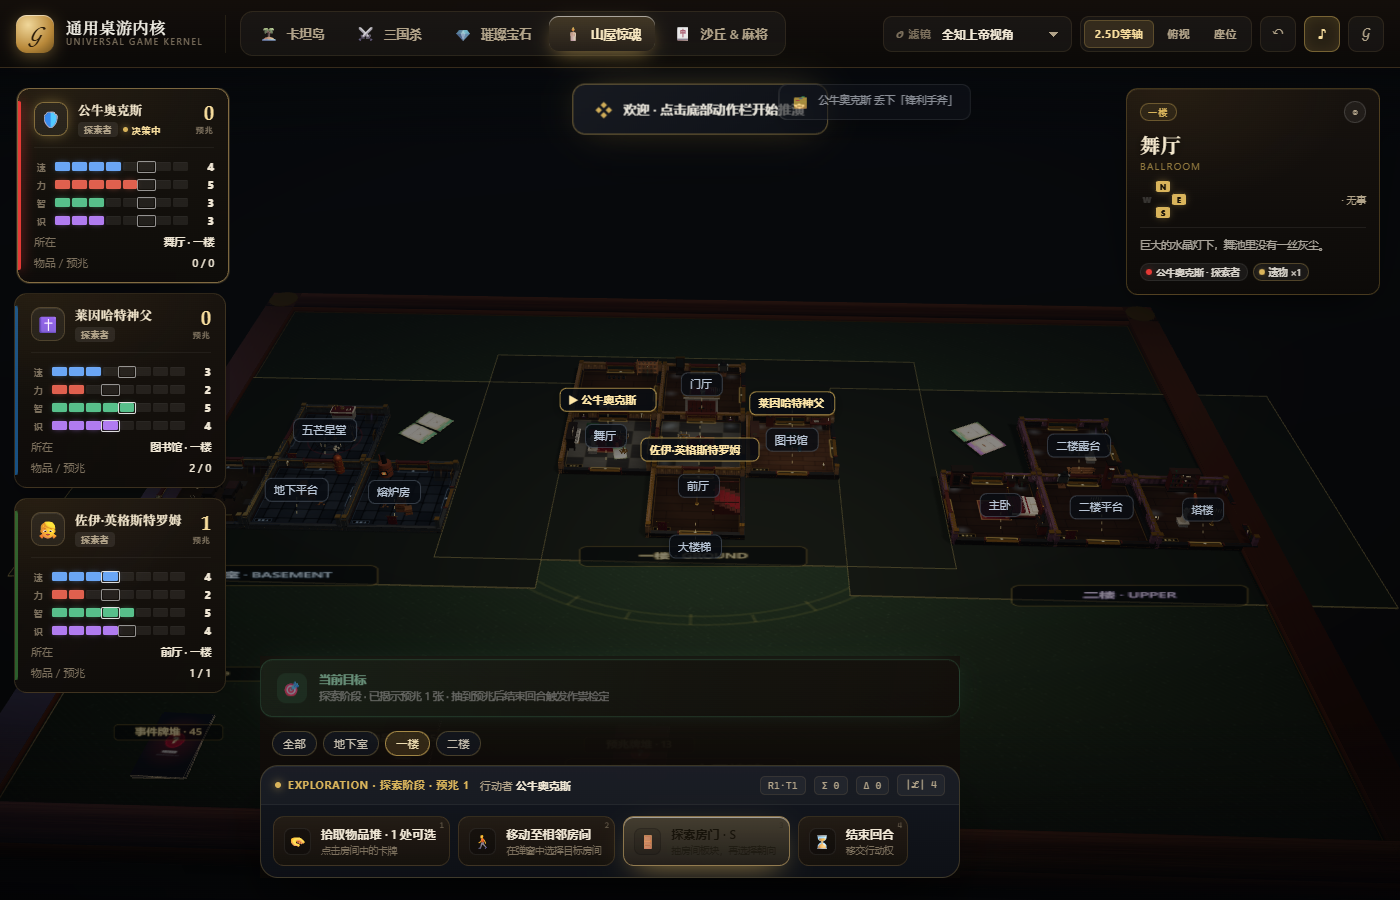
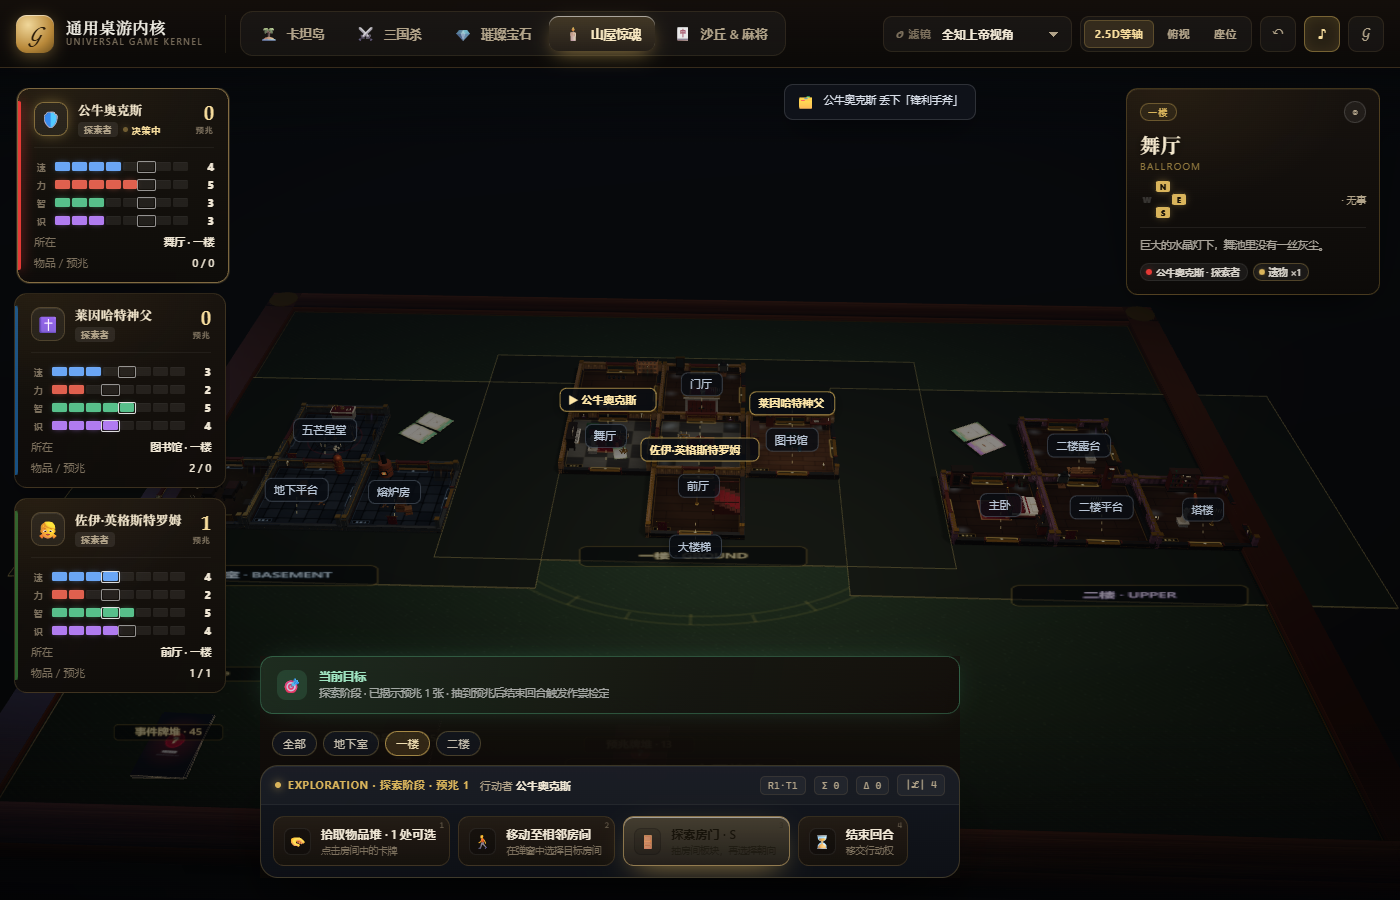
feat(ui): room discovery reveal sheet and presenter-scoped reveal state
- HUD diffs room ids per snapshot and presents a newly explored room as a
  centred parchment sheet (name, text, floor, connected doors, symbol)
- reveal variant of the sheet with its own entrance animation and timeout
- reset known rooms / pinning when switching fixtures so the first board
  paint never plays a cutscene
- audit entry SA-79

Changed region(s): [[0.3993, 0.0933, 0.6757, 0.1556], [0.1843, 0.7467, 0.43, 0.7778]]

diff --git a/src/ui/hud.ts b/src/ui/hud.ts
@@ -32,6 +32,9 @@ export class BoardGameHUD {
   /** Room the player last clicked; the dossier follows it until the turn moves. */
   private pinnedRoomId?: string;
   private lastActorRoomId?: string;
+  /** Set of room ids already seen, for the "new room discovered" reveal. */
+  private knownRooms?: Set<string>;
+  private sheetTimer: number | null = null;
 
   constructor(
     container: HTMLElement,
@@ -53,6 +56,10 @@ export class BoardGameHUD {
     this.unsubSnapshot?.();
     this.unsubNotice?.();
     this.closePayload();
+    // Switching fixtures must not treat the new board as "rooms discovered".
+    this.knownRooms = undefined;
+    this.pinnedRoomId = undefined;
+    this.lastActorRoomId = undefined;
     this.presenter = presenter;
     this.bindPresenter(presenter);
     this.syncSoundButton();
@@ -396,7 +403,7 @@ export class BoardGameHUD {
    * Framed card detail sheet in the mansion's own visual language: aged
    * parchment, a suit-coloured header ribbon, and a wax seal for omens.
    */
-  public showCardSheet(card: UiCardDetail): void {
+  public showCardSheet(card: UiCardDetail, options: { reveal?: boolean; footer?: string } = {}): void {
     let layer = this.container.querySelector('#card-sheet-layer') as HTMLElement | null;
     if (!layer) {
       layer = document.createElement('div');
@@ -417,6 +424,7 @@ export class BoardGameHUD {
       .map(row => `<li><span>${row.label}</span><b>${row.value}</b></li>`)
       .join('');
 
+    layer.classList.toggle('is-reveal', !!options.reveal);
     layer.innerHTML = `
       <article class="card-sheet" data-kind="${card.kind}" style="--ink:${theme.ink};--ribbon:${theme.ribbon}">
         <button class="cs-close" type="button" aria-label="关闭">×</button>
@@ -429,20 +437,66 @@ export class BoardGameHUD {
           <p class="cs-desc">${card.desc}</p>
           ${facts ? `<ul class="cs-facts">${facts}</ul>` : ''}
         </div>
-        <div class="cs-foot">点击牌堆或场景实体继续</div>
+        <div class="cs-foot">${options.footer ?? '点击牌堆或场景实体继续'}</div>
       </article>
     `;
     layer.classList.add('open');
 
     const close = () => {
-      layer!.classList.remove('open');
+      layer!.classList.remove('open', 'is-reveal');
       layer!.innerHTML = '';
     };
     layer.querySelector('.cs-close')?.addEventListener('click', close);
     layer.addEventListener('click', event => {
       if (event.target === layer) close();
     });
-    window.setTimeout(close, 9000);
+    if (this.sheetTimer) window.clearTimeout(this.sheetTimer);
+    this.sheetTimer = window.setTimeout(close, options.reveal ? 7000 : 9000);
+  }
+
+  /**
+   * Discovery moment: when a newly explored room enters the projection, present
+   * it like a drawn card instead of silently growing the board.
+   */
+  private maybeRevealRoom(snapshot: GameSnapshot): void {
+    const rooms = Object.values(snapshot.board.mapGraph.nodes).filter(node => node.type === 'ROOM');
+    if (!this.knownRooms) {
+      // First paint: register the opening layout without a cutscene.
+      this.knownRooms = new Set(rooms.map(node => node.id));
+      return;
+    }
+    const fresh = rooms.filter(node => !this.knownRooms!.has(node.id));
+    for (const node of rooms) this.knownRooms.add(node.id);
+    if (fresh.length === 0) return;
+
+    const node = fresh[fresh.length - 1];
+    const props = (node.props ?? {}) as Record<string, unknown>;
+    const floorId = String(props.floor ?? '');
+    const floorLabel = floorId === 'BASEMENT' ? '地下室' : floorId === 'UPPER' ? '二楼' : '一楼';
+    const doors = Array.isArray(props.doors) ? (props.doors as string[]) : [];
+    const symbol =
+      props.symbol === 'OMEN'
+        ? '预兆 👁'
+        : props.symbol === 'ITEM'
+        ? '遗物 ◆'
+        : props.symbol === 'EVENT'
+        ? '事件 ✦'
+        : '无符号';
+    this.pinnedRoomId = node.id;
+    this.showCardSheet(
+      {
+        title: String(props.name ?? '房间'),
+        en: String(props.en ?? ''),
+        kind: 'ROOM',
+        desc: String(props.text ?? ''),
+        facts: [
+          { label: '楼层', value: floorLabel },
+          { label: '已连通门位', value: doors.join(' · ') || '无' },
+          { label: '符号', value: symbol }
+        ]
+      },
+      { reveal: true, footer: '新房间已加入洋馆布局' }
+    );
   }
 
   private syncSoundButton(): void {
@@ -552,6 +606,7 @@ export class BoardGameHUD {
     this.renderPlayers(snapshot);
     this.renderRoomCard(snapshot);
     this.renderDock(snapshot);
+    this.maybeRevealRoom(snapshot);
   }
 
   /**

diff --git a/src/ui/styles.css b/src/ui/styles.css
@@ -3072,3 +3072,36 @@ select.pf-control {
   color: rgba(217, 180, 91, 0.8);
   letter-spacing: 0.02em;
 }
+
+/* Room-discovery reveal: same parchment, centred and slightly larger. */
+.card-sheet-layer.is-reveal {
+  justify-content: center;
+  align-items: flex-end;
+  padding: 0 0 176px;
+}
+
+.card-sheet-layer.is-reveal .card-sheet {
+  width: 306px;
+  transform: translateY(22px) scale(0.97);
+  animation: room-reveal-in 420ms cubic-bezier(0.16, 1, 0.3, 1) forwards;
+  box-shadow:
+    0 34px 80px -30px #000,
+    0 0 0 1px rgba(90, 66, 32, 0.6),
+    0 0 60px -10px rgba(217, 180, 91, 0.35),
+    inset 0 0 0 3px rgba(255, 250, 235, 0.5);
+}
+
+@keyframes room-reveal-in {
+  to {
+    transform: translateY(0) scale(1);
+    opacity: 1;
+  }
+}
+
+.card-sheet-layer.is-reveal .cs-title {
+  font-size: 25px;
+}
+
+.card-sheet-layer.is-reveal .cs-ribbon {
+  letter-spacing: 0.3em;
+}

diff --git a/docs/SIMULATOR-AUDIT.md b/docs/SIMULATOR-AUDIT.md
@@ -187,6 +187,7 @@
 | SA-76 | P2 | 三间卧室陈设雷同（床 + 衣柜 + 床头柜） | 缺少年代感的梳妆家具 | 新增 `chestOfDrawers`：四层抽屉（黄铜拉手 + 锁孔）、顶部倾斜镜（乌木框 + 暗玻璃 + 双侧立柱）、香水瓶与发刷；接入 master_bedroom / bedroom / nursery | `probe-layout` 三个房间均 5/5 落位 |
 | SA-77 | P2 | 鼠标悬停房间没有任何提示，玩家不知道能不能点 | `onInteractiveHover` 在 main.ts 里被接成空函数 | 新增顶部悬浮芯片 `showHoverHint()`：悬停房间显示"房名 · 点击查看房间档案"，悬停门位/卡牌/骰子各有对应文案 | `scripts/tmp-hover` 实测 `on:true text:舞厅点击查看房间档案` |
 | SA-78 | P1 | **悬停任一房间会让整桌所有房间一起发亮** | 房间按材质合并且共享全局调色板，`applyHoverHighlight` 直接改 `material.emissive`，等于改了所有引用者 | 悬停时对 `userData.shared` 材质做**克隆替换**（记录 original 以便换回，克隆随 hover 结束 dispose）；非共享材质仍走原地 tint | `tsc` + UI 矩阵；悬停不再外溢 |
+| SA-79 | P2 | 探索出新房间时只有一行日志，缺一个"翻开板块"的仪式感 | 房间揭示没有任何表现层反馈 | 新增房间揭示浮层 `maybeRevealRoom()`：HUD 自己 diff 房间 id 集合（首帧只登记不演出），新板块以居中羊皮纸卡呈现——房名/英文名/印刷描述/楼层/已连通门位/符号，配 `room-reveal-in` 入场动画与 7s 自动收起；切夹具时重置已知集合 | `scripts/tmp-reveal` 实测 `rooms 14 → 15, reveal:true, 花园 / 房间·ROOM / N·S / 事件 ✦` |
 
 ---
 
